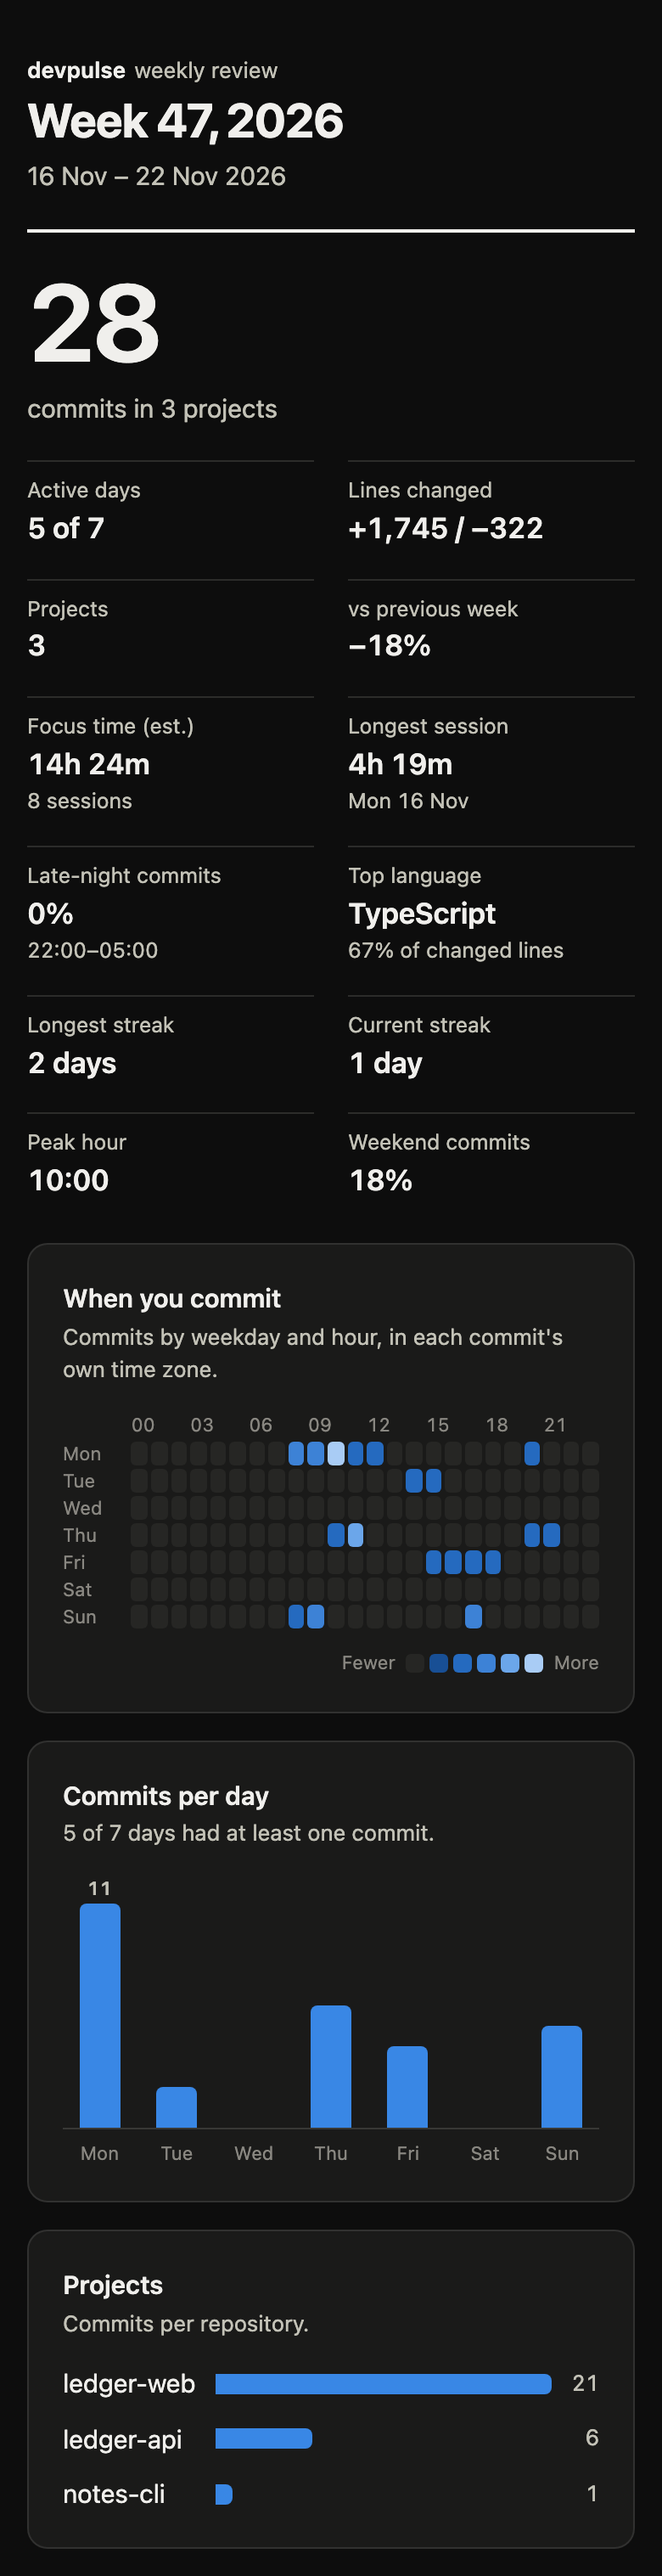
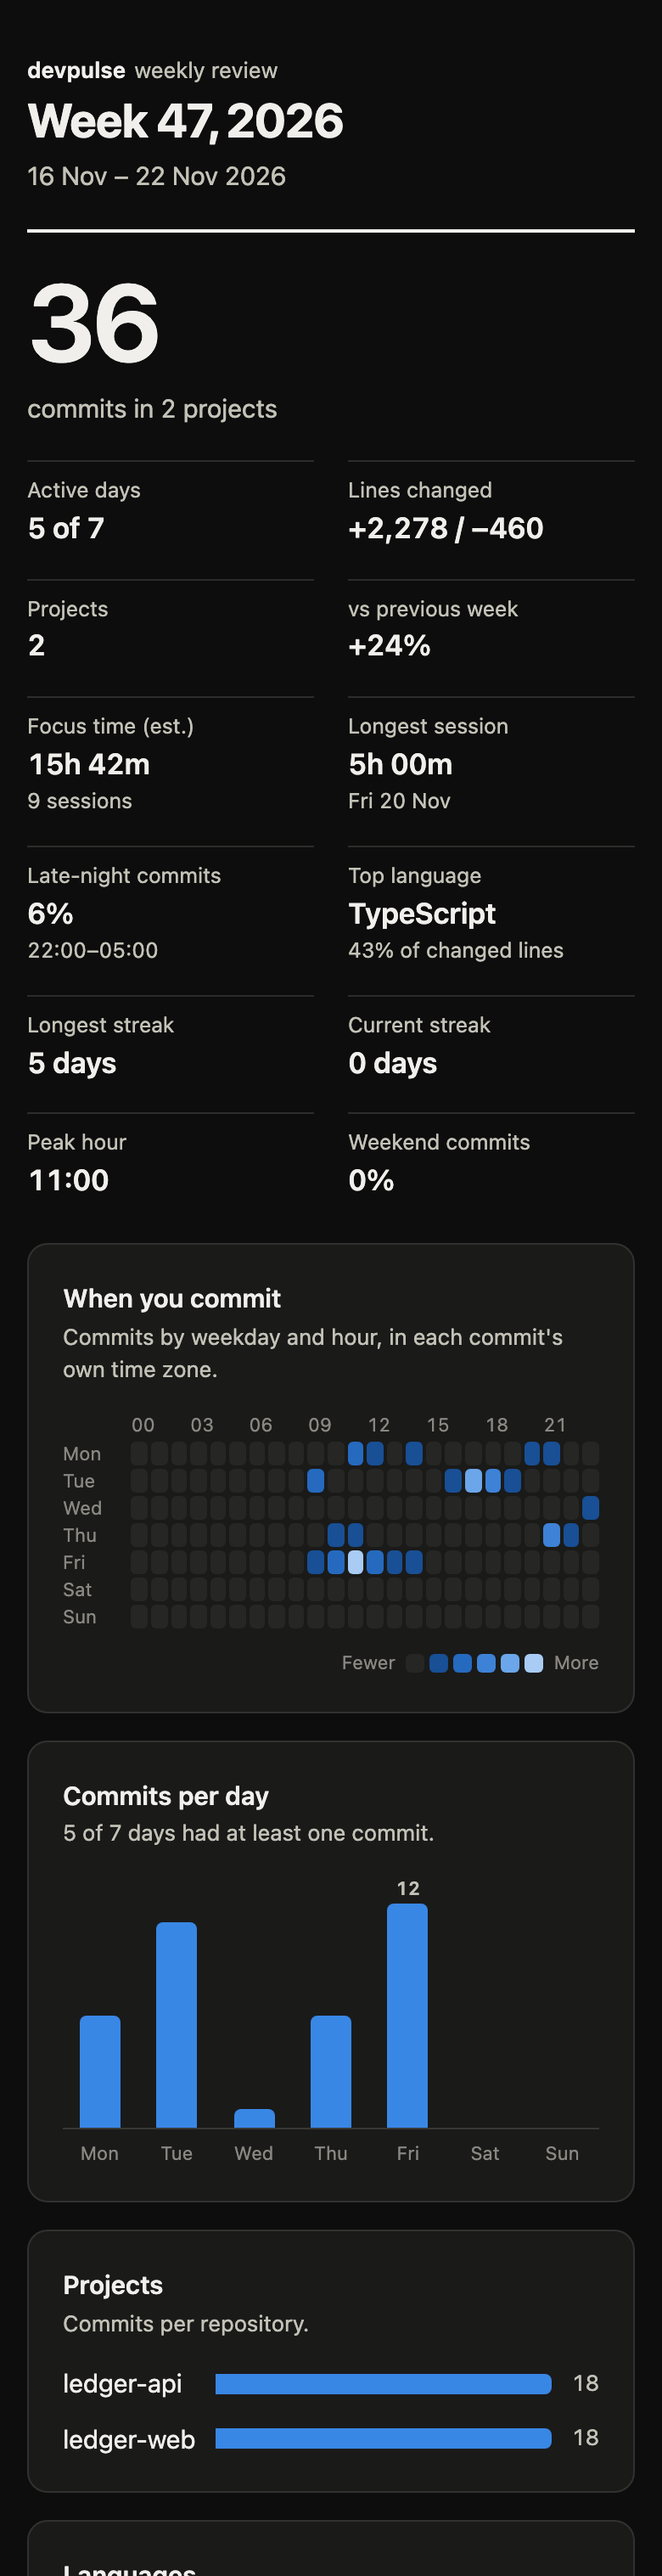
Retake the README screenshots and terminal sample; date an empty Today
The standup printed "Today" without its date when nothing was
committed yet, unlike the day above it.

diff --git a/src/devpulse/terminal.py b/src/devpulse/terminal.py
@@ -98,7 +98,7 @@ def print_standup(today: date, previous: list[Commit], current: list[Commit], co
     if current:
         _bullets(f"Today ({fmt_day(today)})", current, console)
     else:
-        console.print("[bold]Today[/bold]\n  [dim]No commits yet.[/dim]")
+        console.print(f"[bold]Today ({fmt_day(today)})[/bold]\n  [dim]No commits yet.[/dim]")
 
 
 def _bullets(title: str, commits: list[Commit], console: Console) -> None:

diff --git a/tests/test_outputs.py b/tests/test_outputs.py
@@ -171,7 +171,7 @@ def test_standup_labels_the_last_active_day():
     text = out.getvalue()
     assert "Last active day (Fri 6 Mar)" in text
     assert text.count("api: Ship [v2]") == 1
-    assert "No commits yet." in text
+    assert "Today (Mon 9 Mar)\n  No commits yet." in text  # dated like the day above it
 
 
 def test_dashboard_policy_allows_only_its_own_script_and_no_requests():

diff --git a/README.md b/README.md
@@ -70,23 +70,22 @@ $ devpulse week ~/code
 
 devpulse · weekly review · Week 47, 2026 (16 Nov – 22 Nov 2026)
 
-Commits            28              Focus time (est.)    14h 24m (8 sessions)
-Active days        5 of 7          Longest session      4h 19m (Mon 16 Nov)
-Lines changed      +1,745 / −322   Biggest day          Mon 16 Nov (11 commits)
-Projects           3               Peak hour            10:00
-vs previous week   −18%            Late-night commits   0% (22:00–05:00)
-Longest streak     2 days          Weekend commits      18%
-Current streak     1 day           Top language         TypeScript (67% of changed lines)
+Commits            36              Focus time (est.)    15h 42m (9 sessions)
+Active days        5 of 7          Longest session      5h 00m (Fri 20 Nov)
+Lines changed      +2,278 / −460   Biggest day          Fri 20 Nov (12 commits)
+Projects           2               Peak hour            11:00
+vs previous week   +24%            Late-night commits   6% (22:00–05:00)
+Longest streak     5 days          Weekend commits      0%
+Current streak     0 days          Top language         TypeScript (43% of changed lines)
 
-Hours 00–23  ········▅▆█▆▂·▂▃▂▅▂·▃▂··
-Per day      █▁·▄▃·▄
+Hours 00–23  ·········▃▃█▃▁▂·▁▄▃▁▁▄▁▁
+Per day      ▄▇▁▄█··
 
 Project     Commits          Lines  Latest
-ledger-web       21  +1,479 / −276  Fix empty states
-ledger-api        6     +253 / −46  Refactor webhook retries
-notes-cli         1       +13 / −0  Simplify config file
+ledger-api       18  +1,076 / −237  Speed up invoice totals
+ledger-web       18  +1,202 / −223  Document date picker
 
-Languages by changed lines  TypeScript 67%, CSS 18%, Python 12%, Markdown 3%, Go 1%
+Languages by changed lines  TypeScript 43%, Python 36%, Markdown 12%, CSS 9%
 ```
 
 ```
@@ -154,13 +153,13 @@ Each project is a wikilink, so the note joins whatever project pages you already
 
 One HTML file with inline CSS and about ten lines of script for hover tooltips. It follows your light or dark system theme and can be mailed, printed or archived as is.
 
-![Year recap in dark mode: 1,333 commits, busiest month, top project, biggest day, rhythm, and a calendar heatmap of the year](docs/screenshots/year-dark.png)
+![Year recap in dark mode: 1,474 commits, busiest month, top project, biggest day, rhythm, and a calendar heatmap of the year with the days still to come outlined](docs/screenshots/year-dark.png)
 
 On a phone the same file is one column, and the year calendar splits into two half-year grids instead of scrolling sideways:
 
 <p>
   <img src="docs/screenshots/phone-year.png" width="300" alt="Year recap on a phone in light mode: the headline number, the tiles in two columns, the recap lines and the calendar as two stacked half-year grids">
-  <img src="docs/screenshots/phone-week-dark.png" width="300" alt="Weekly dashboard on a phone in dark mode: 28 commits, the tiles, the weekday-by-hour heatmap and commits per day">
+  <img src="docs/screenshots/phone-week-dark.png" width="300" alt="Weekly dashboard on a phone in dark mode: 36 commits, the tiles, the weekday-by-hour heatmap and commits per day">
 </p>
 
 The charts are not the only way in: every chart has a text description for screen readers, commits per day and the whole weekday-by-hour heatmap are also tables, the project lists open with the keyboard, and the colours survive print and Windows high-contrast mode. A period without commits gets a page that says what was searched and what to try next.
